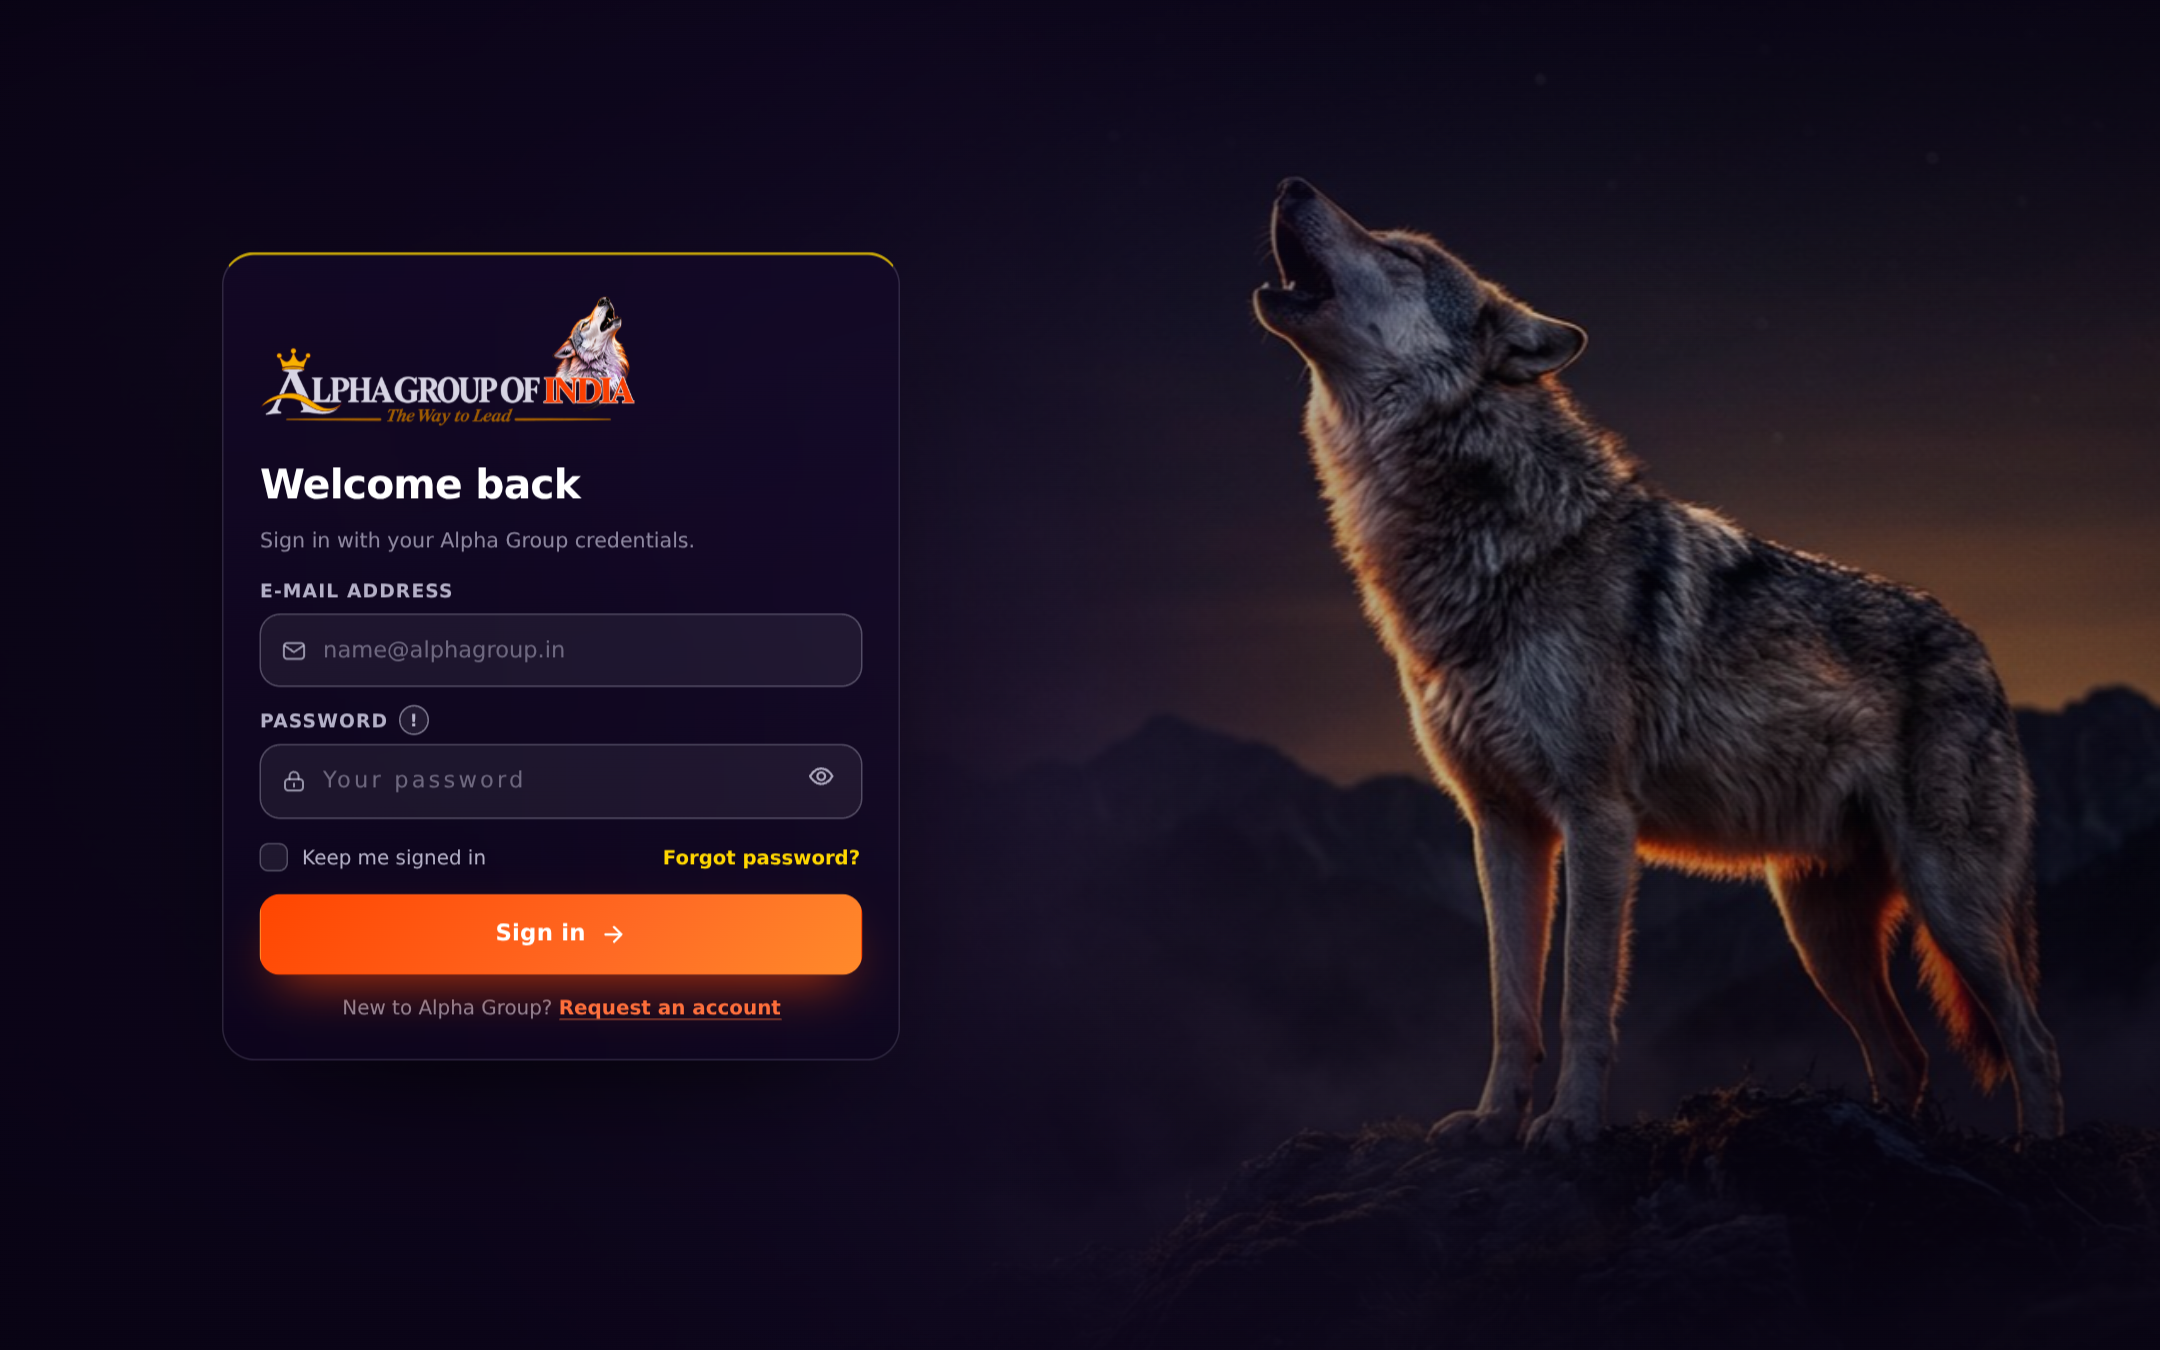
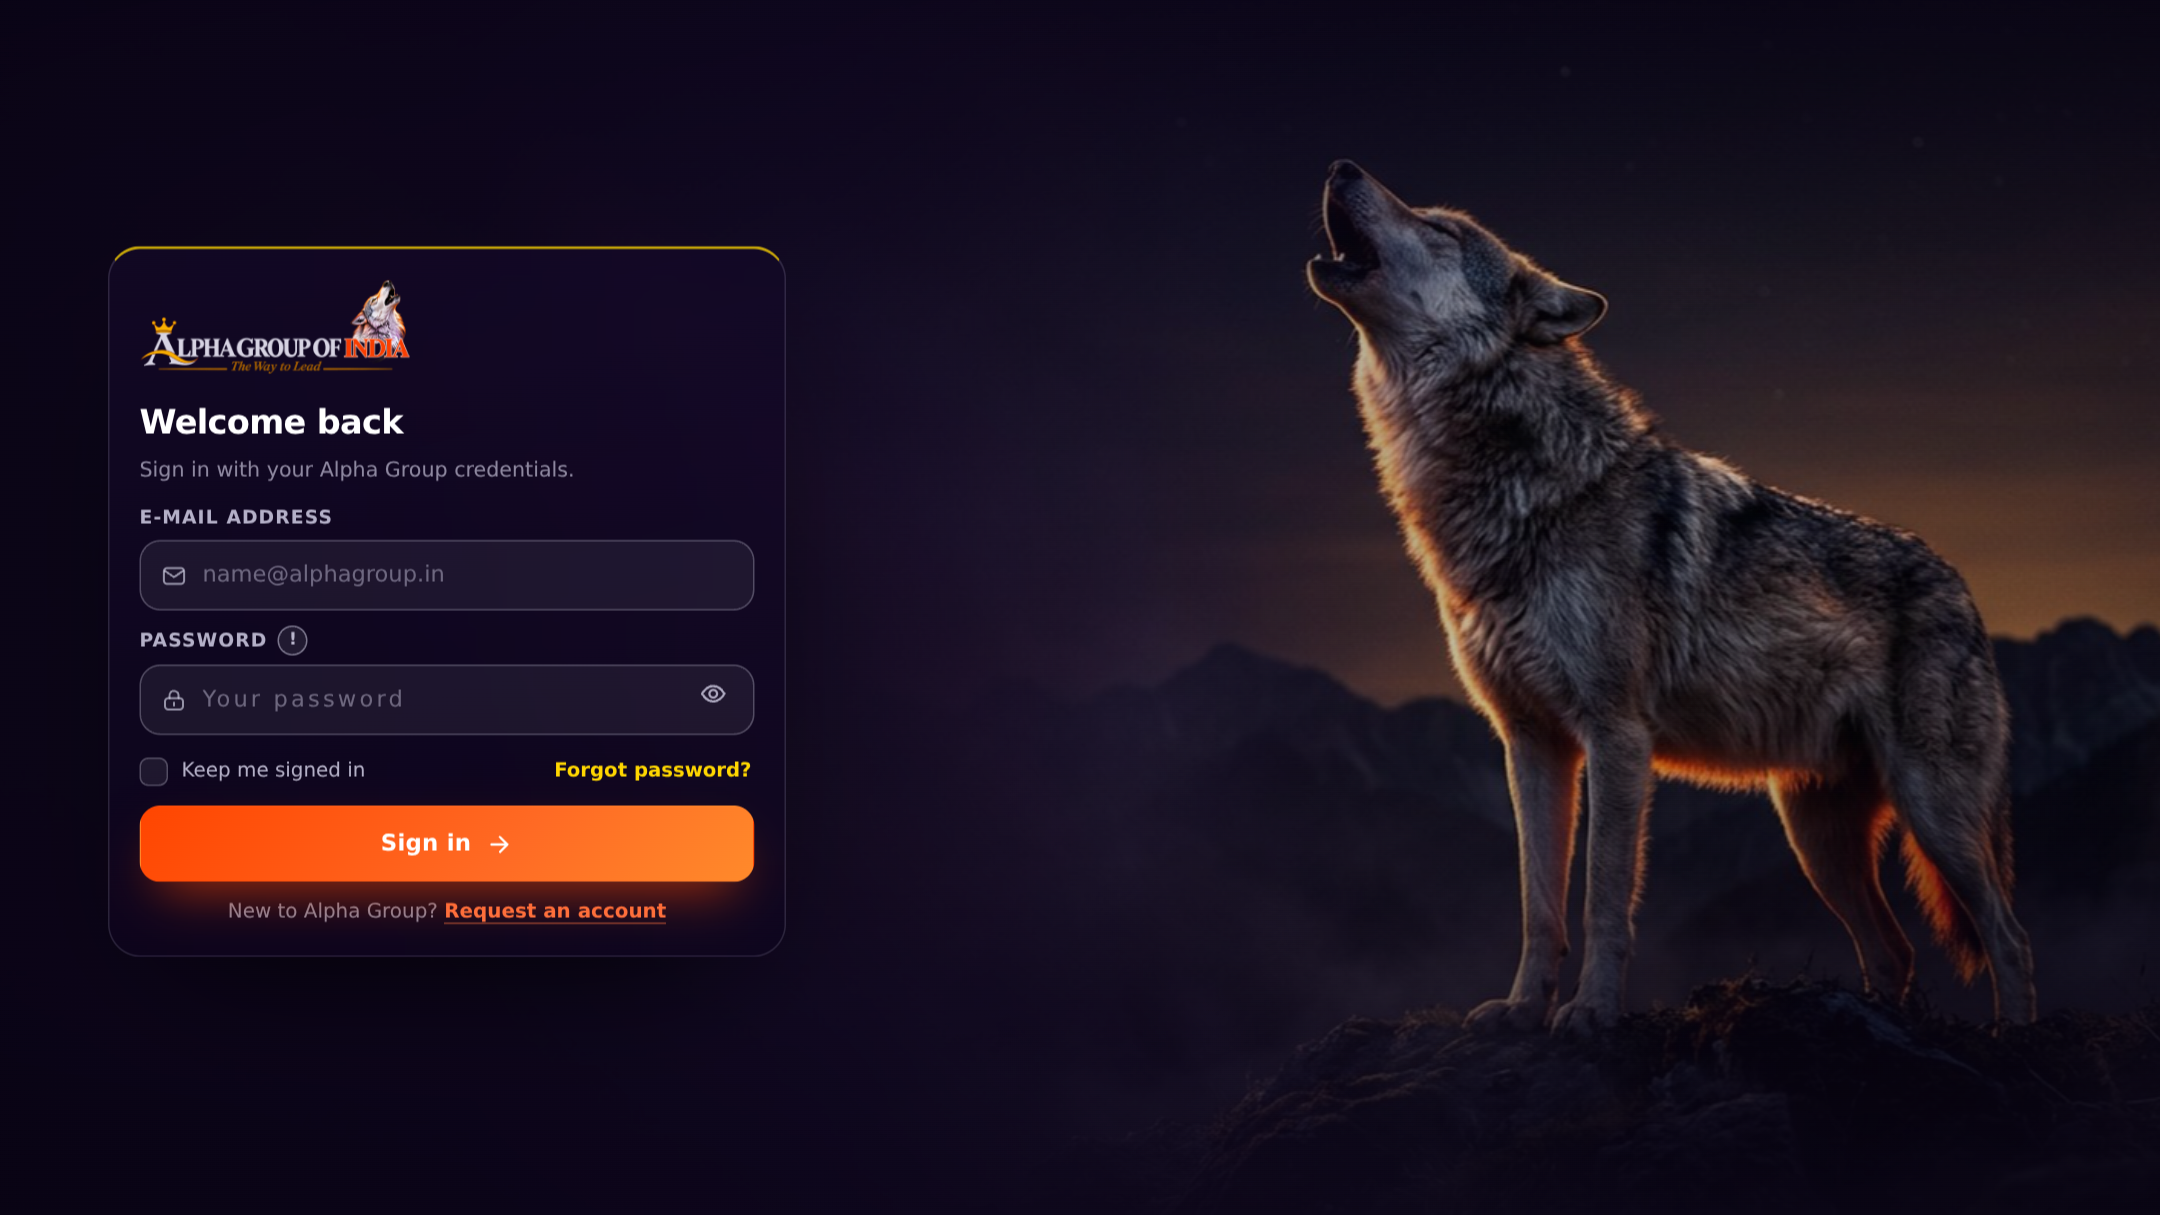
Revert "style(css): centre the sign-in panel in the left half"
This reverts commit fab7a42bea9666848e98c591e7deb9207f91eb8b.

diff --git a/src/main/resources/static/css/app.css b/src/main/resources/static/css/app.css
@@ -190,12 +190,10 @@ ul { padding: 0; list-style: none; }
   position: relative;
   z-index: 2;
   display: grid;
-  /* Equal halves: the sign-in panel sits centred in the left one, the wolf
-     photograph keeps the right one to itself. */
-  grid-template-columns: minmax(0, 1fr) minmax(0, 1fr);
+  grid-template-columns: minmax(0, 452px) minmax(0, 1fr);
   align-items: center;
   align-content: center;
-  justify-items: center;
+  justify-items: start;
   column-gap: clamp(24px, 6vw, 120px);
   padding: clamp(18px, 2.4vw, 34px) clamp(20px, 5vw, 72px) clamp(20px, 3vw, 40px);
 }
@@ -210,10 +208,8 @@ ul { padding: 0; list-style: none; }
   align-content: center;
 }
 
-/* No masthead on the auth pages any more — the logo lives inside the panel.
-   The extra breathing room is applied to both edges so the centred panel
-   does not sit low. */
-.page--auth .stage { padding-block: clamp(24px, 4vh, 48px); }
+/* No masthead on the auth pages any more — the logo lives inside the panel. */
+.page--auth .stage { padding-top: clamp(24px, 5vh, 56px); }
 
 /* --------------------------------------------------------------------------
    Small shared pieces
